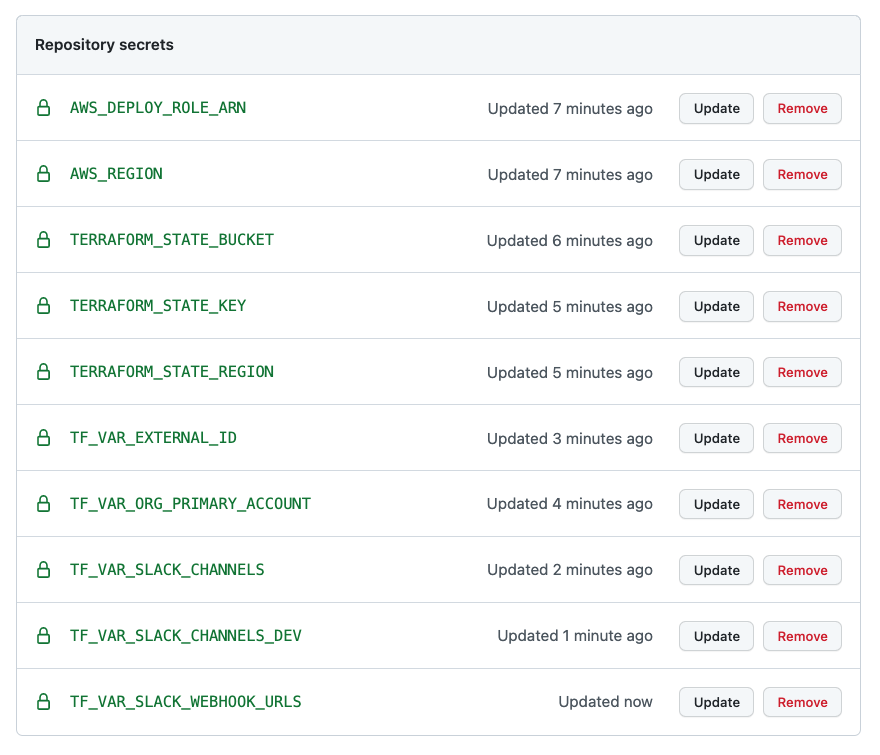
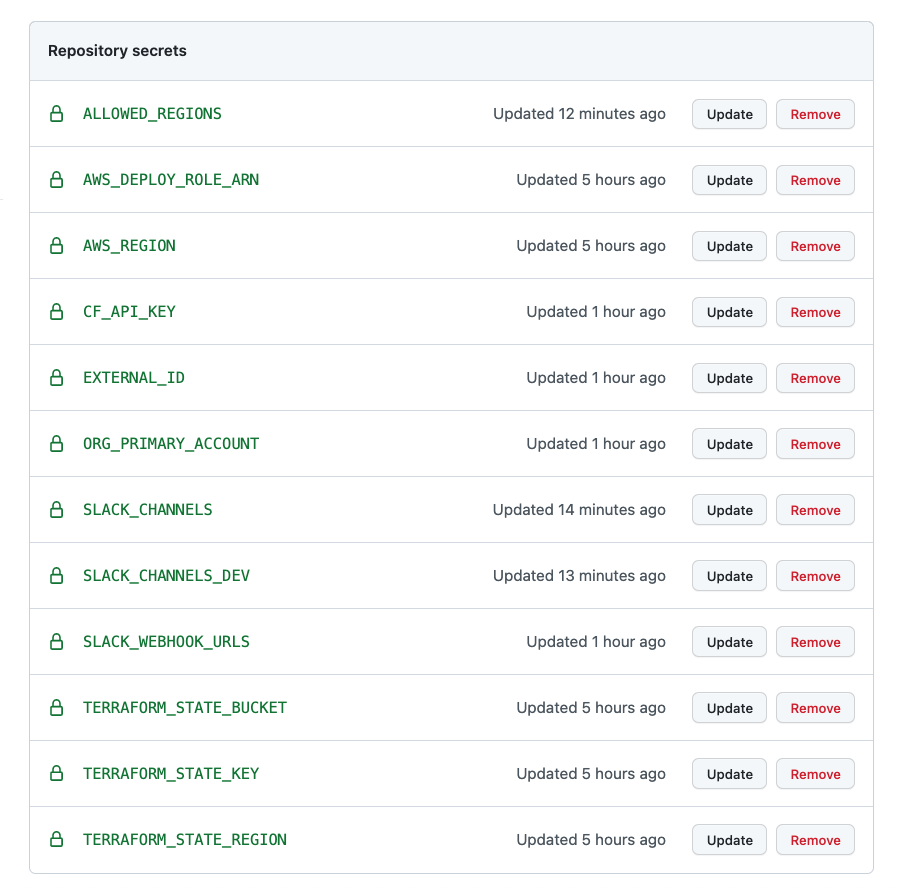
document environment variables

diff --git a/docs/REPO.md b/docs/REPO.md
@@ -1,5 +1,5 @@
 ## Create repo in your own GitHub Organisation
-* create a private or internal empty repository `domain-protect-deploy` in your organisation
+* create a private or internal repository `domain-protect-deploy` in your organisation
 ```
 git clone https://github.com/domain-protect/domain-protect-deploy
 git remote rename origin upstream
@@ -21,22 +21,40 @@ git push origin main
 ## Enter secrets
 * at Settings, Security, Secrets, Actions, enter Repository secrets:
 
-| ENVIRONMENT VARIABLE            | EXAMPLE VALUE / COMMENT                          |
+| REPOSITORY SECRETS              | EXAMPLE VALUE / COMMENT                          |
 | ------------------------------- | -------------------------------------------------|
-| AWS_DEPLOY_ROLE_ARN             | arn:aws:iam::123456789012:role/domain-protect-oidc-github        |
+| AWS_DEPLOY_ROLE_ARN             | arn:aws:iam::123456789012:role/domain-protect-oidc-github |
 | AWS_REGION                      | eu-west-1    |
 | TERRAFORM_STATE_BUCKET          | tfstate48903                                     |
 | TERRAFORM_STATE_KEY             | domain-protect                                   |
 | TERRAFORM_STATE_REGION          | us-east-1                                        |  
-| TF_VAR_org_primary_account      | 012345678901                                     | 
-| TF_VAR_security_audit_role_name | not needed if "domain-protect-audit" used        |
-| TF_VAR_external_id              | only required if External ID is configured       |
-| TF_VAR_slack_channels           | ["security-alerts"]                              |
-| TF_VAR_slack_channels_dev       | ["security-alerts-dev"]                          |
-| TF_VAR_slack_webhook_urls       | ["https://hooks.slack.com/services/XXX/XXX/XXX"] | 
+| ORG_PRIMARY_ACCOUNT             | 012345678901                                     | 
+| SECURITY_AUDIT_ROLE_NAME        | not needed if "domain-protect-audit" used        |
+| EXTERNAL_ID                     | only required if External ID is configured       |
+| SLACK_CHANNELS                  | ["security-alerts"]                              |
+| SLACK_CHANNELS_DEV              | ["security-alerts-dev"]                          |
+| SLACK_WEBHOOK_URLS              | ["https://hooks.slack.com/services/XXX/XXX/XXX"] | 
 
 <img src="images/actions-secrets.png" width="500">
 
+Environment variables should be created as secrets where:
+* the information is sensitive, e.g. an API key
+* the variable would otherwise require double quotes, e.g. a list with string elements
+
+## Update deploy.yml
+* remove unwanted environment variables, for example if you're not using any optional features, and you want the standard DynamoDB database sizing, delete these lines in the initial the `env` block at the start of [workflow](../.github/workflows/deploy.yml)
+```
+  TF_VAR_cloudflare: true
+  TF_VAR_cf_api_key: ${{ secrets.CF_API_KEY }}
+  TF_VAR_rcu: 1
+  TF_VAR_wcu: 1
+  TF_VAR_ip_address: true
+  TF_VAR_allowed_regions: ${{ secrets.ALLOWED_REGIONS }}
+```
 * enter additional environment variables to turn on optional features
-* Terraform variables should be prefixed by `TF_VAR_`
-* this can be done at any time
+* enter additional environment variables to customise settings
+* ensure each secret has a corresponding definition in the `env` block at the start of [workflow](../.github/workflows/deploy.yml)
+```
+git commit -am "environment variable update"
+git push
+```
